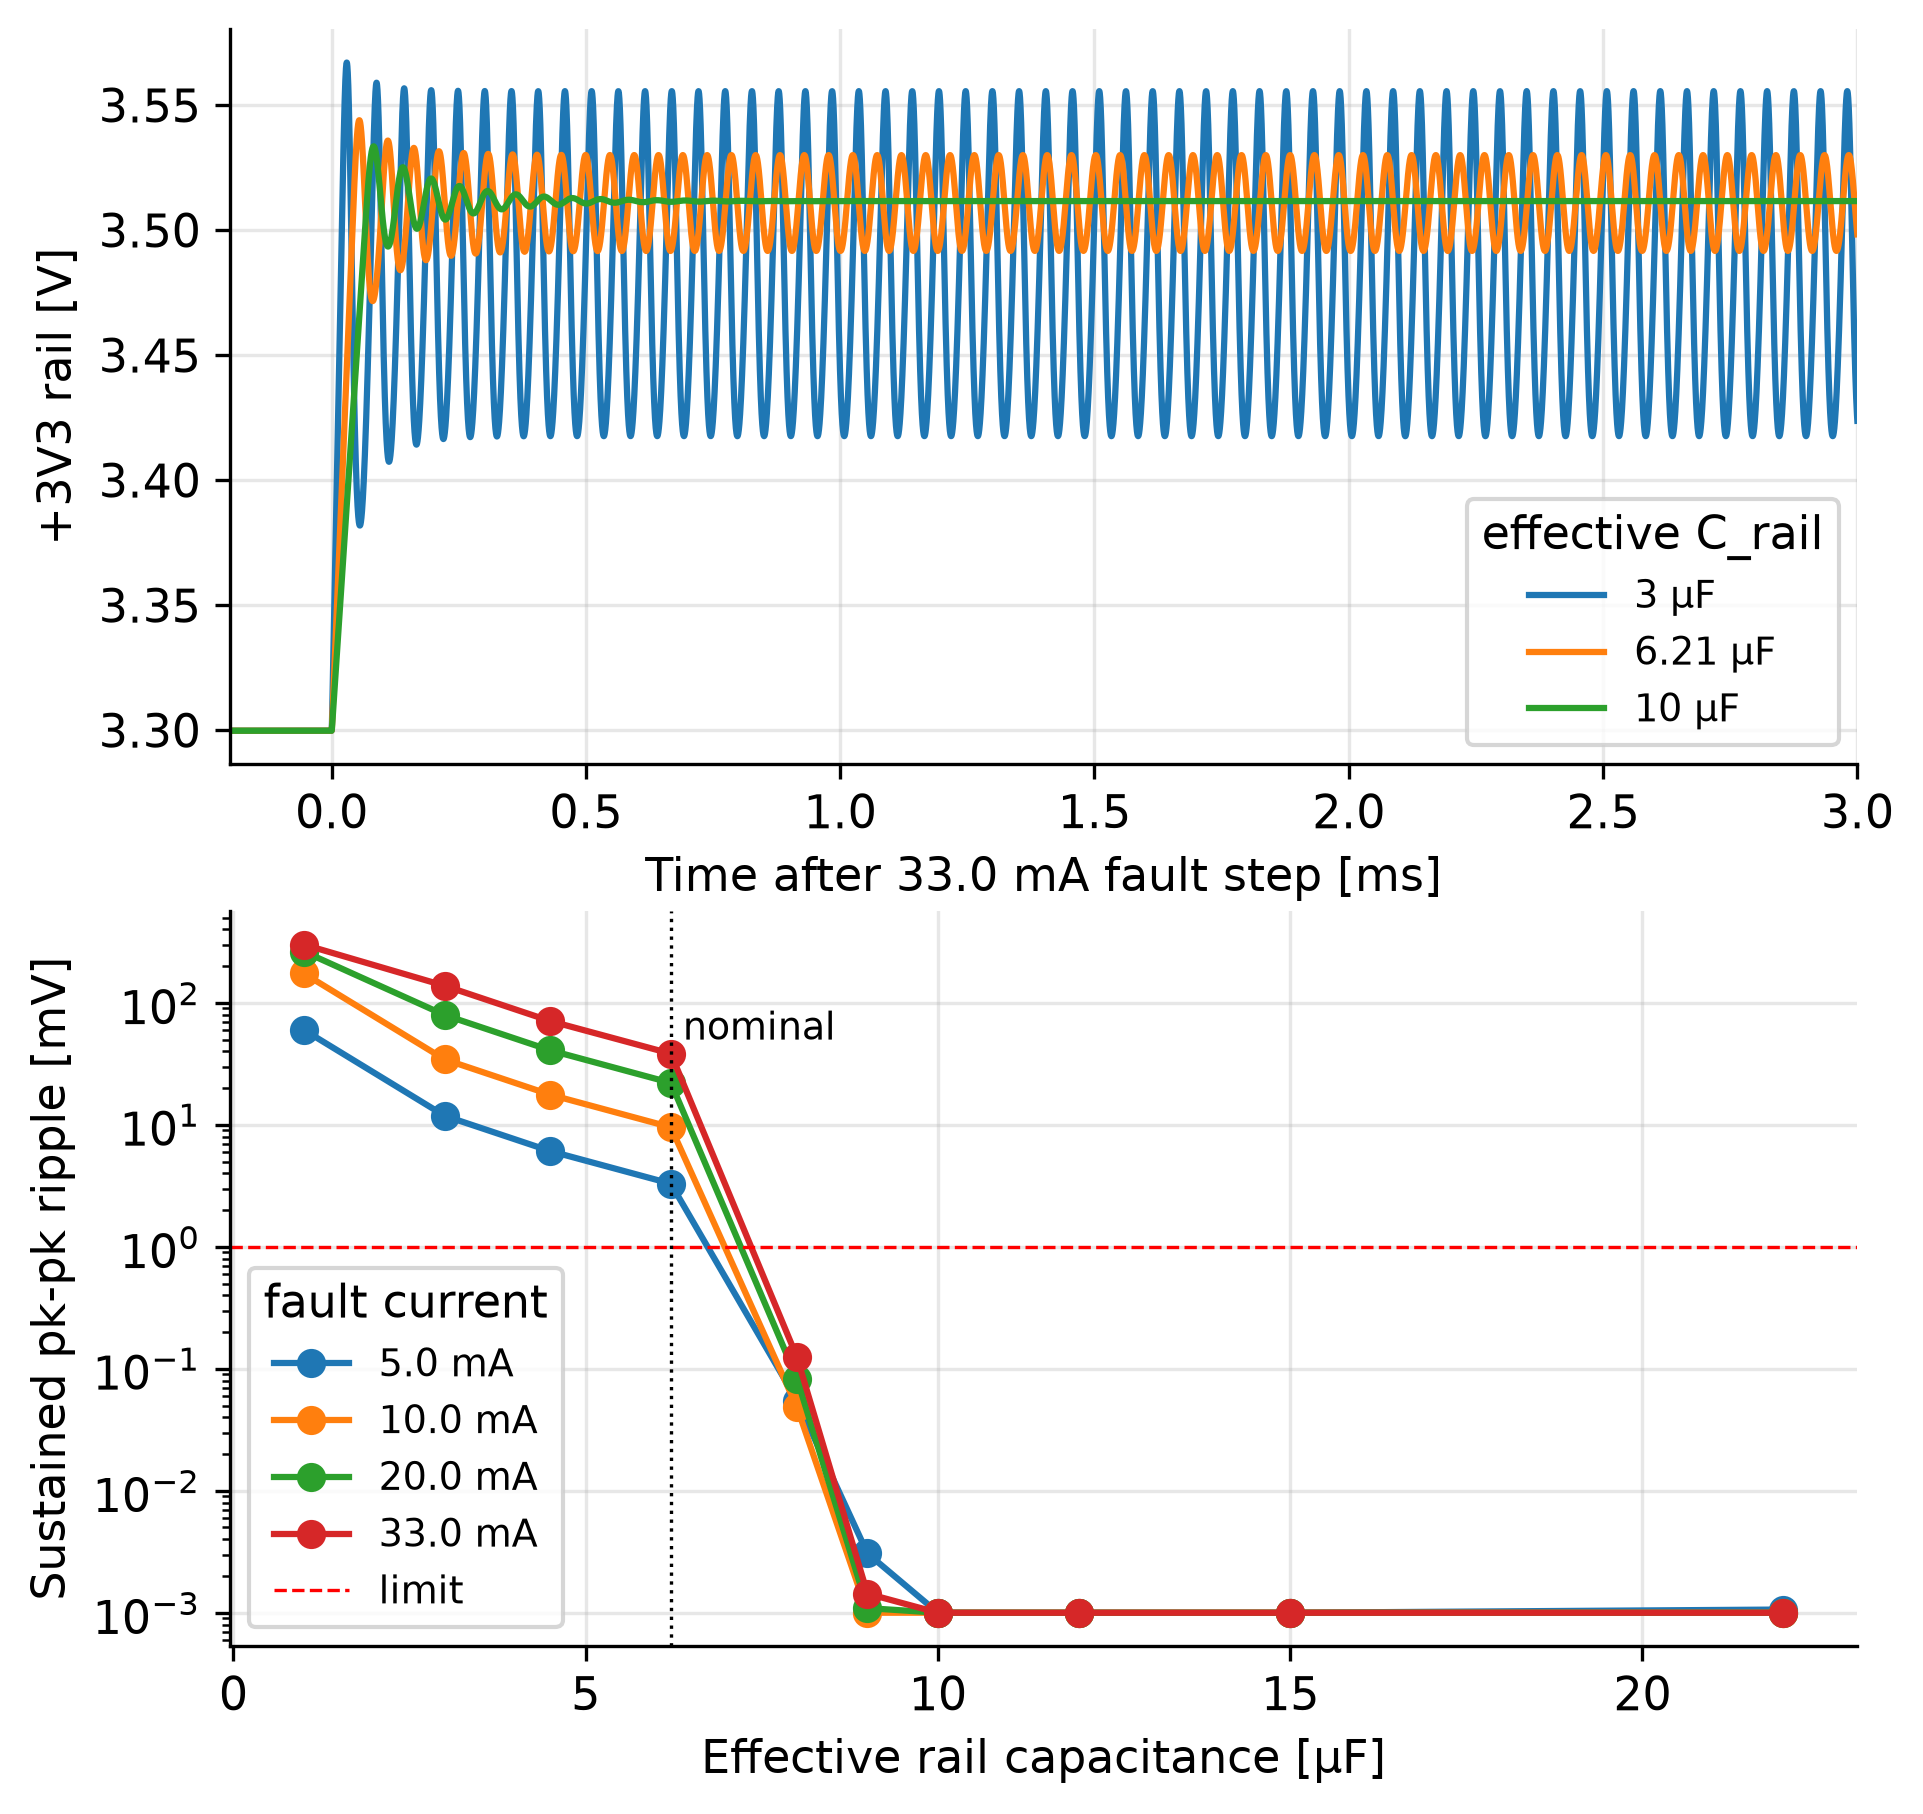
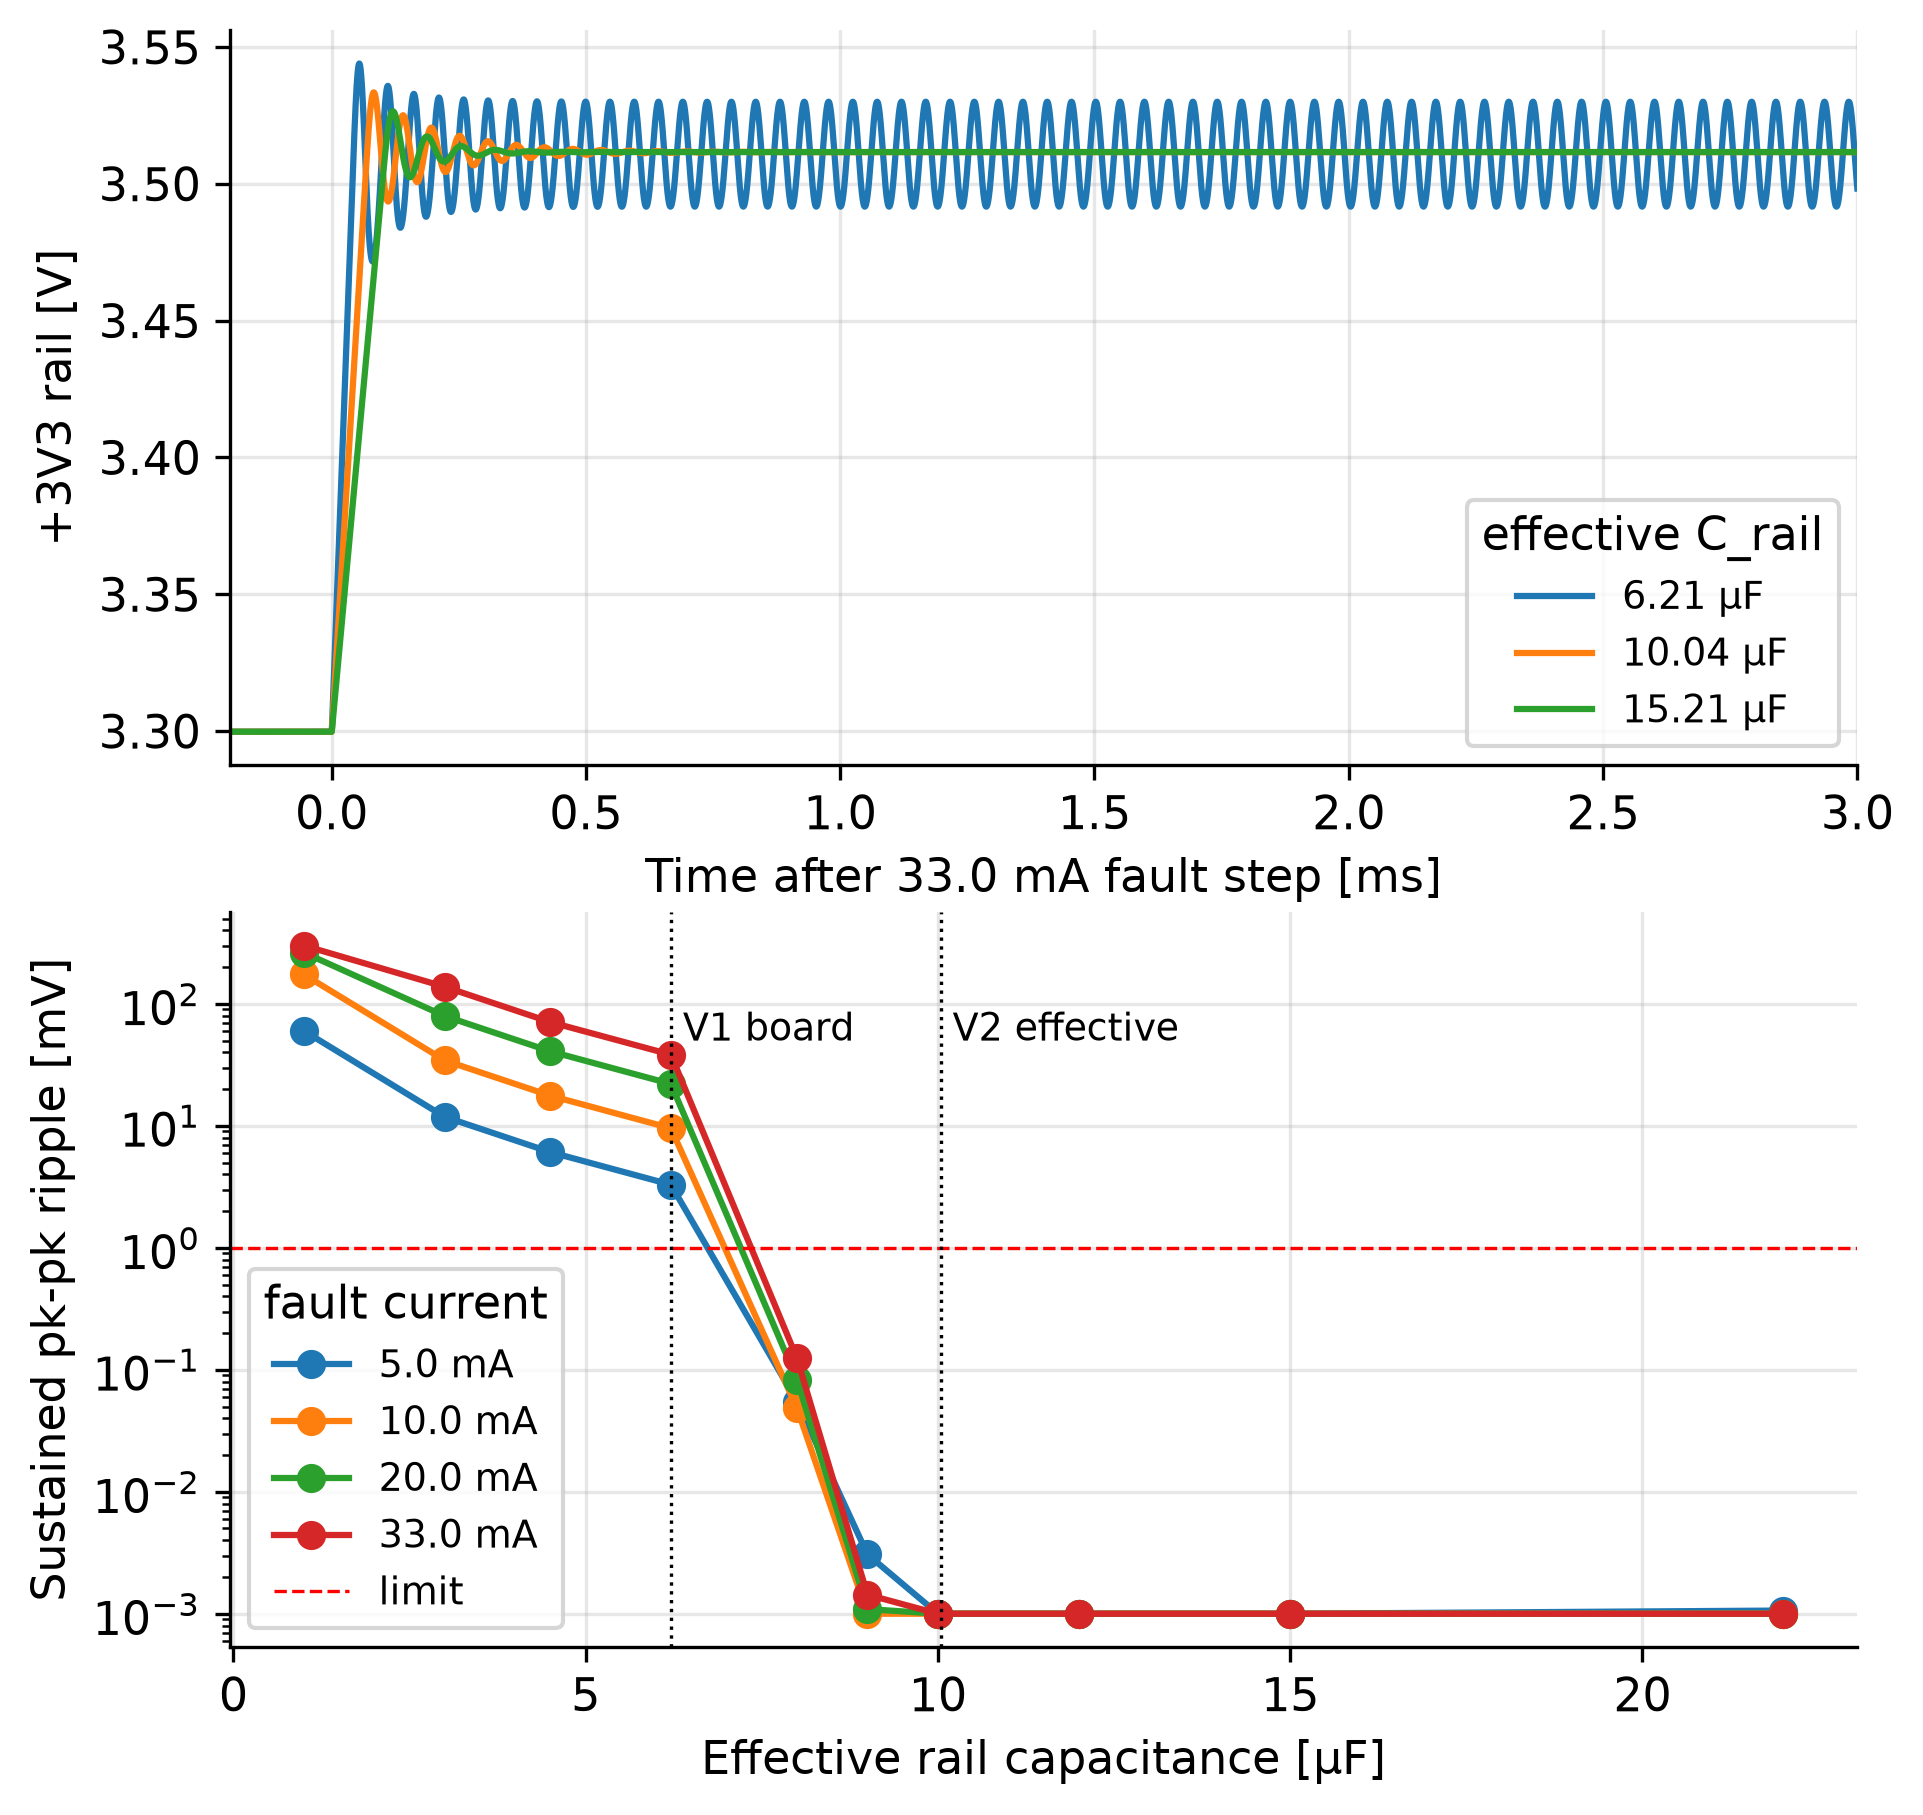
Rerun clamp study for C6 = 10 uF, checking stability at the DC-bias effective capacitance.

diff --git a/electrical/02-tl431-fault-clamp/scripts/run_sims.py b/electrical/02-tl431-fault-clamp/scripts/run_sims.py
@@ -29,12 +29,15 @@ PARTS = load_parts()
 
 RAIL_CAPS = ("C6", "C7", "C18", "C20", "C21", "C22", "C23", "C24")
 C_RAIL_NOM = sum(PARTS[ref]["value"] for ref in RAIL_CAPS)
+# Ceramics lose capacitance under DC bias; every rail sim uses the effective value.
+C_RAIL_EFF = C_RAIL_NOM * CRIT["c_dc_bias_factor"]
+C_RAIL_V1 = 6.21e-6  # board V1 total (C6 = 1 uF), kept for comparison
 C_SWEEP = np.array([1, 3, 4.5, 6.21, 8, 9, 10, 12, 15, 22]) * 1e-6
 I_SWEEP = np.array([5, 10, 20]) * 1e-3  # plus the simulated 24 V clamp current
 OVERSHOOTS = (0.0, 0.02, 0.04, 0.06)
 
 
-def rail_params(c_rail=C_RAIL_NOM, vset=CRIT["vset"]):
+def rail_params(c_rail=C_RAIL_EFF, vset=CRIT["vset"]):
     return {"VSET": vset, "CRAIL": c_rail, "RESR": CRIT["resr"], "RLOAD": CRIT["rload"]}
 
 
@@ -124,23 +127,18 @@ def sustained_pp(t, v):
 
 
 def stability_grid(currents):
-    """pk-pk ripple [V] per (current, C), plus waveforms (one per C) at the top current."""
+    """Sustained pk-pk ripple [V] for every (current, capacitance) pair."""
     grid = np.zeros((len(currents), len(C_SWEEP)))
-    waves = []
     for i, i_fault in enumerate(currents):
         for j, c_rail in enumerate(C_SWEEP):
-            t, v = step_response(c_rail, i_fault)
-            grid[i, j] = sustained_pp(t, v)
-            if i == len(currents) - 1:
-                waves.append((t, v))
-    return grid, waves
+            grid[i, j] = sustained_pp(*step_response(c_rail, i_fault))
+    return grid
 
 
 def plot_stability(currents, grid, waves):
     fig, (ax1, ax2) = plt.subplots(2, 1, figsize=(7, 7))
-    for c_rail in (3e-6, 6.21e-6, 10e-6):
-        t, v = waves[int(np.argmin(np.abs(C_SWEEP - c_rail)))]
-        ax1.plot((t - 1e-3) * 1e3, v, label=f"{c_rail * 1e6:g} µF")
+    for c_rail, (t, v) in waves.items():
+        ax1.plot((t - 1e-3) * 1e3, v, label=f"{c_rail * 1e6:.2f} µF")
     ax1.set_xlim(-0.2, 3)
     ax1.set_xlabel(f"Time after {currents[-1] * 1e3:.1f} mA fault step [ms]")
     ax1.set_ylabel("+3V3 rail [V]")
@@ -150,8 +148,9 @@ def plot_stability(currents, grid, waves):
         ax2.semilogy(C_SWEEP * 1e6, np.maximum(grid[i], floor) * 1e3, "o-",
                      label=f"{i_fault * 1e3:.1f} mA")
     ax2.axhline(CRIT["osc_pp_max"] * 1e3, ls="--", c="r", lw=0.8, label="limit")
-    ax2.axvline(C_RAIL_NOM * 1e6, ls=":", c="k", lw=0.8)
-    ax2.text(C_RAIL_NOM * 1e6, 50, " nominal", fontsize=9)
+    for c_rail, label in ((C_RAIL_V1, " V1 board"), (C_RAIL_EFF, " V2 effective")):
+        ax2.axvline(c_rail * 1e6, ls=":", c="k", lw=0.8)
+        ax2.text(c_rail * 1e6, 50, label, fontsize=9)
     ax2.set_xlabel("Effective rail capacitance [µF]")
     ax2.set_ylabel("Sustained pk-pk ripple [mV]")
     ax2.legend(title="fault current", fontsize=9)
@@ -222,14 +221,21 @@ def main():
 
     i_clamp_24 = at_fault(sweep, "i_clamp", CRIT["v_fault"])
     currents = np.append(I_SWEEP, i_clamp_24)
-    grid, waves = stability_grid(currents)
+    grid = stability_grid(currents)
+    waves = {c: step_response(c, i_clamp_24) for c in (C_RAIL_V1, C_RAIL_EFF, C_RAIL_NOM)}
     plot_stability(currents, grid, waves)
-    j_nom = int(np.argmin(np.abs(C_SWEEP - C_RAIL_NOM)))
+    pp = {c: max(sustained_pp(*step_response(c, i)) for i in currents)
+          for c in (C_RAIL_EFF, C_RAIL_NOM)}
+    c_min = min_stable_c(grid)
     rows += [
-        check("Nominal rail capacitance", C_RAIL_NOM * 1e6, "uF"),
-        check("Sustained ripple at nominal C, 24 V fault current", grid[-1, j_nom] * 1e3, "mV",
+        check("Rail capacitance, nominal", C_RAIL_NOM * 1e6, "uF"),
+        check("Rail capacitance, effective after DC bias", C_RAIL_EFF * 1e6, "uF"),
+        check("Worst sustained ripple at effective C (all currents)", pp[C_RAIL_EFF] * 1e3, "mV",
               max=CRIT["osc_pp_max"] * 1e3),
-        check("Smallest effective C stable at all currents", min_stable_c(grid) * 1e6, "uF"),
+        check("Worst sustained ripple at nominal C (all currents)", pp[C_RAIL_NOM] * 1e3, "mV",
+              max=CRIT["osc_pp_max"] * 1e3),
+        check("Smallest effective C stable at all currents", c_min * 1e6, "uF"),
+        check("Effective C / smallest stable C", C_RAIL_EFF / c_min, "x", min=1),
     ]
 
     rows += powerup_rows()

diff --git a/electrical/02-tl431-fault-clamp/scripts/thermal_check.py b/electrical/02-tl431-fault-clamp/scripts/thermal_check.py
@@ -90,7 +90,9 @@ def main():
         rows += [check(f"{name} at {v_fault:g} V", p * 1e3, "mW", max=rating * 1e3)
                  for name, p, rating in table]
     i_tx_low = CRIT["v_fault"] / (PARTS["R29"]["value"] + CRIT["r_mcu_pin"])
-    rows.append(check("STM32 TX pin current if driving low at 24 V", i_tx_low * 1e3, "mA"))
+    # Per-pin limit not checked here (not in inputs); this is the sum-of-all-GPIO limit.
+    rows.append(check("STM32 TX pin current if driving low at 24 V", i_tx_low * 1e3, "mA",
+                      max=DEV["stm32_gpio_total"] * 1e3))
     if not write_summary(rows, P["results"] / "summary_thermal.csv"):
         sys.exit(1)
 

diff --git a/electrical/02-tl431-fault-clamp/README.md b/electrical/02-tl431-fault-clamp/README.md
@@ -37,8 +37,9 @@ hand-calc budget. This study checks:
   - TL431: TI's unencrypted PSpice model.
   - BAV199: **fitted to the datasheet's max Vf**, not a vendor model. Nexperia's download
     blocks automated access.
-- Nominal rail capacitance: C6 + C7 + C18 + C20–C24 = **6.21 µF** (the schematic's
-  "C_OUT on +3V3" note). Device data and assumptions:
+- Rail capacitance: C6 + C7 + C18 + C20–C24 = **15.21 µF nominal** (schematic V2, C6 = 10 µF).
+  Every rail sim uses **10.04 µF effective**, applying the sheet 2 DC-bias note
+  (~10 µF of 15.2 µF, factor 0.66). Device data and assumptions:
   [`inputs/devices.csv`](inputs/devices.csv), [`inputs/criteria.csv`](inputs/criteria.csv).
 
 ## Assumptions
@@ -81,20 +82,24 @@ the hand calc).
 
 ![](results/figures/clamp_stability.png)
 
-| Stability | Result | Limit | |
+| Stability (schematic V2, C6 = 10 µF) | Result | Limit | |
 |---|---|---|---|
-| Sustained ripple at 6.21 µF, 33 mA | **38 mV pk-pk at ~21 kHz** | ≤ 1 mV | **FAIL** |
+| Worst sustained ripple at 10.04 µF effective, 5–33 mA | < 0.001 mV | ≤ 1 mV | **PASS** |
+| Worst sustained ripple at 15.21 µF nominal | < 0.001 mV | ≤ 1 mV | **PASS** |
 | Smallest effective C stable at every current | 8 µF | n/a | info |
+| Effective C / smallest stable C | 1.26× | ≥ 1 | **PASS** |
 
-**With the TI model, the clamp oscillates at the board's nominal 6.21 µF.** This matches the
-unstable region on the TL431 datasheet stability chart (pasted on sheet 2). It is not a
-numerical artifact: a 10× finer timestep gives the same 39.6 mV. The rail still stays below
-3.6 V while it oscillates, so the MCU is not over-volted. But a clamp that is oscillating
-during a fault is not doing its job cleanly. Two things stabilize it:
-- **≥ 8 µF effective** capacitance. Ceramics lose capacitance under DC bias, so aim for
-  ≥ 10 µF effective. For example, change C6 from 1 µF to 10 µF (15.2 µF nominal total). Check
-  the chosen part's DC-bias curve, and stay under the TLV773's 40 µF maximum.
-- Or **~0.2 Ω of ESR** in the bulk capacitor. A sweep at 6.21 µF and 0.2 Ω showed no ringing.
+**Board V1 (C6 = 1 µF, 6.21 µF total) oscillated.** With the TI model it showed 38 mV pk-pk
+at ~21 kHz, matching the unstable region on the TL431 datasheet chart pasted on sheet 2.
+A 10× finer timestep gave the same amplitude, so it was not a numerical artifact. The V1
+waveform is kept in the figure for comparison.
+
+V2 raises C6 to 10 µF. The rail has about 10 µF left after DC bias, which is stable with
+1.26× margin over the 8 µF boundary. That margin depends on the DC-bias factor. If the chosen
+C6 and C23 parts lose more than about 47 % at 3.5 V, the rail drops below 8 µF. Check the
+DC-bias curves of the parts actually ordered. The 15.21 µF nominal is within the TLV773's
+40 µF maximum. About 0.2 Ω of ESR in the bulk capacitor would also stabilize the clamp, if
+more margin is ever needed.
 
 ![](results/figures/powerup.png)
 
@@ -132,13 +137,16 @@ larger part, or a PTC, would make the open-drain outputs survive a fault instead
 (rated 225 mW), with R30 at 180 mW. So with worst-case parts, R30 is not guaranteed to fail first.
 
 If the MCU happens to be driving TX low when the fault hits, about **33 mA** flows into the
-STM32 pin through R29 (24 V / 720 Ω). Check that against the STM32G474 I/O current limit.
+STM32 pin through R29 (24 V / 720 Ω). That is within the 100 mA total for all GPIO combined
+(**PASS**). STM32 parts also have a per-pin limit, which is not in the inputs yet. 33 mA
+likely exceeds it, so check that row of the STM32G474 datasheet.
 
 ## Conclusions
 - The DC clamp works as designed: the rail holds at 3.51 V up to 30 V, with 3× margin on
   TL431 current.
-- **The clamp is unstable at the nominal 6.21 µF.** Raise the effective rail capacitance to
-  ≥ 10 µF, for example C6 → 10 µF. This is the most important change from this study.
+- **Clamp stability is fixed in V2.** C6 = 10 µF gives 10 µF effective, against an 8 µF
+  stability boundary (V1 at 6.21 µF oscillated). Confirm the DC-bias derating of the
+  parts you order.
 - R31 is at its 0805 rating at 28.8 V. Use 1206 for margin. R29 has 14 % margin at 28.8 V.
 - The LDO/TL431 margin is fine in the lab. Raise R7 to 4.12 kΩ if the board ever has to
   work across the full temperature range.
